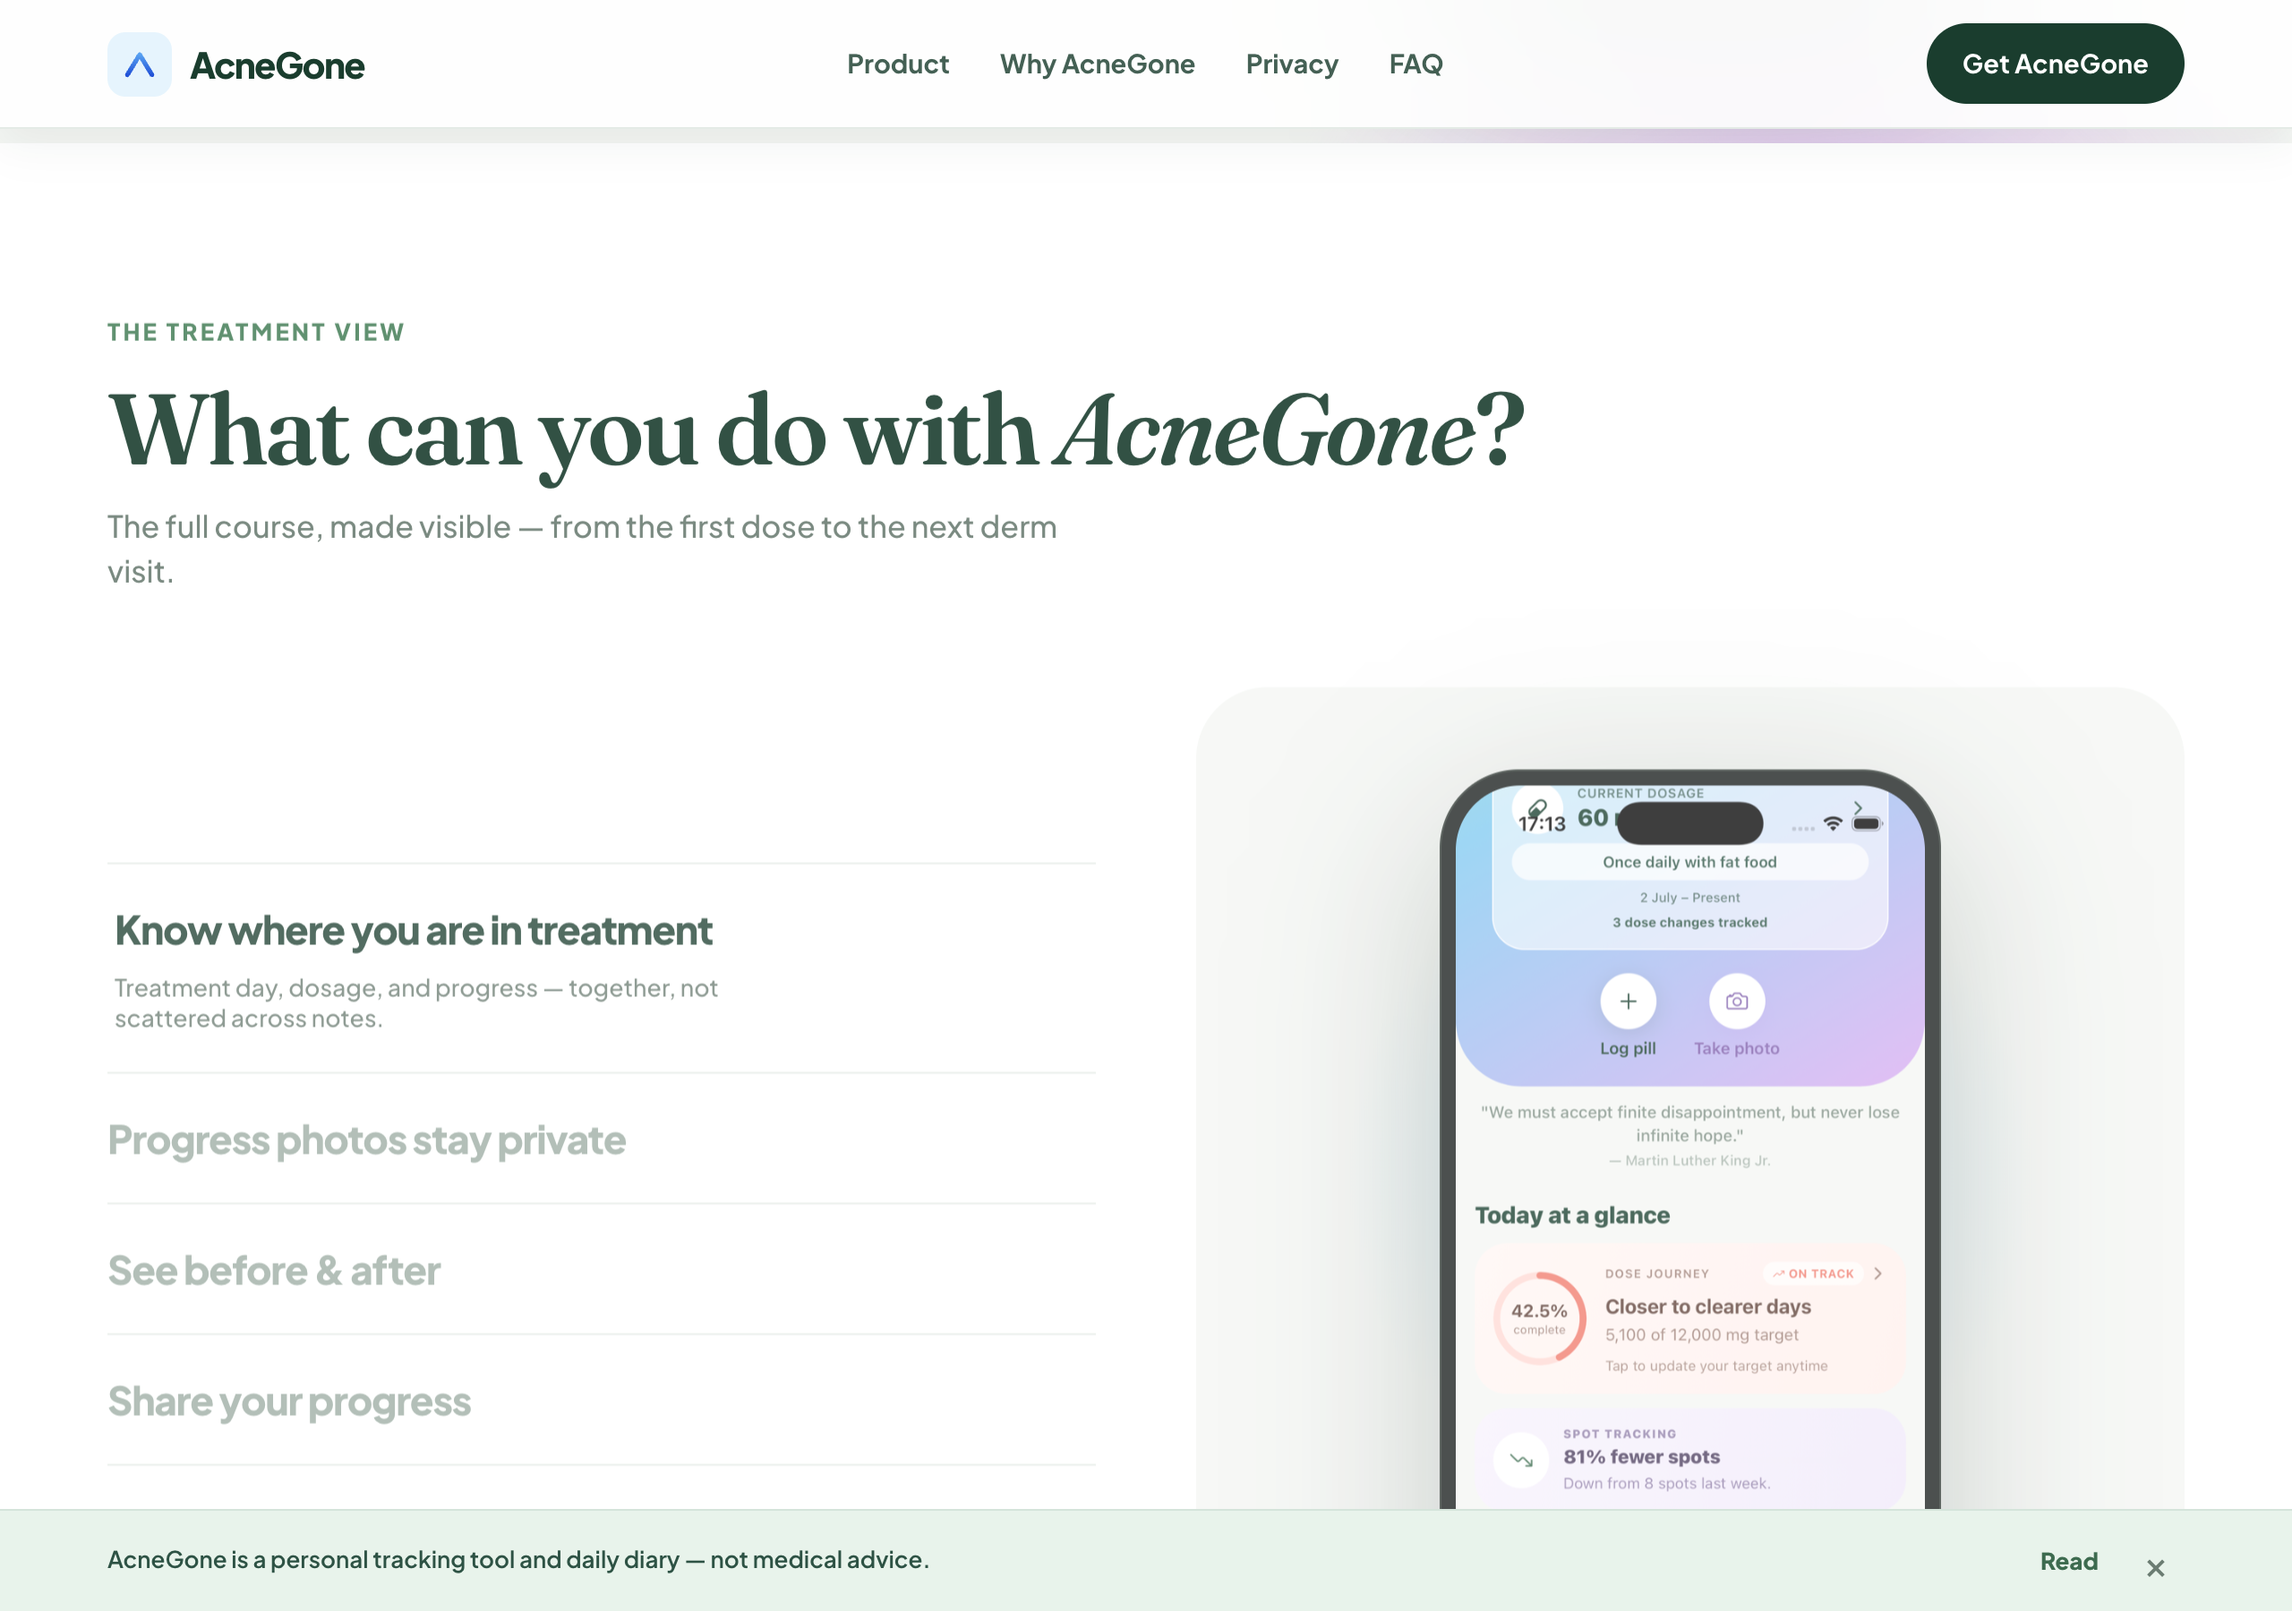
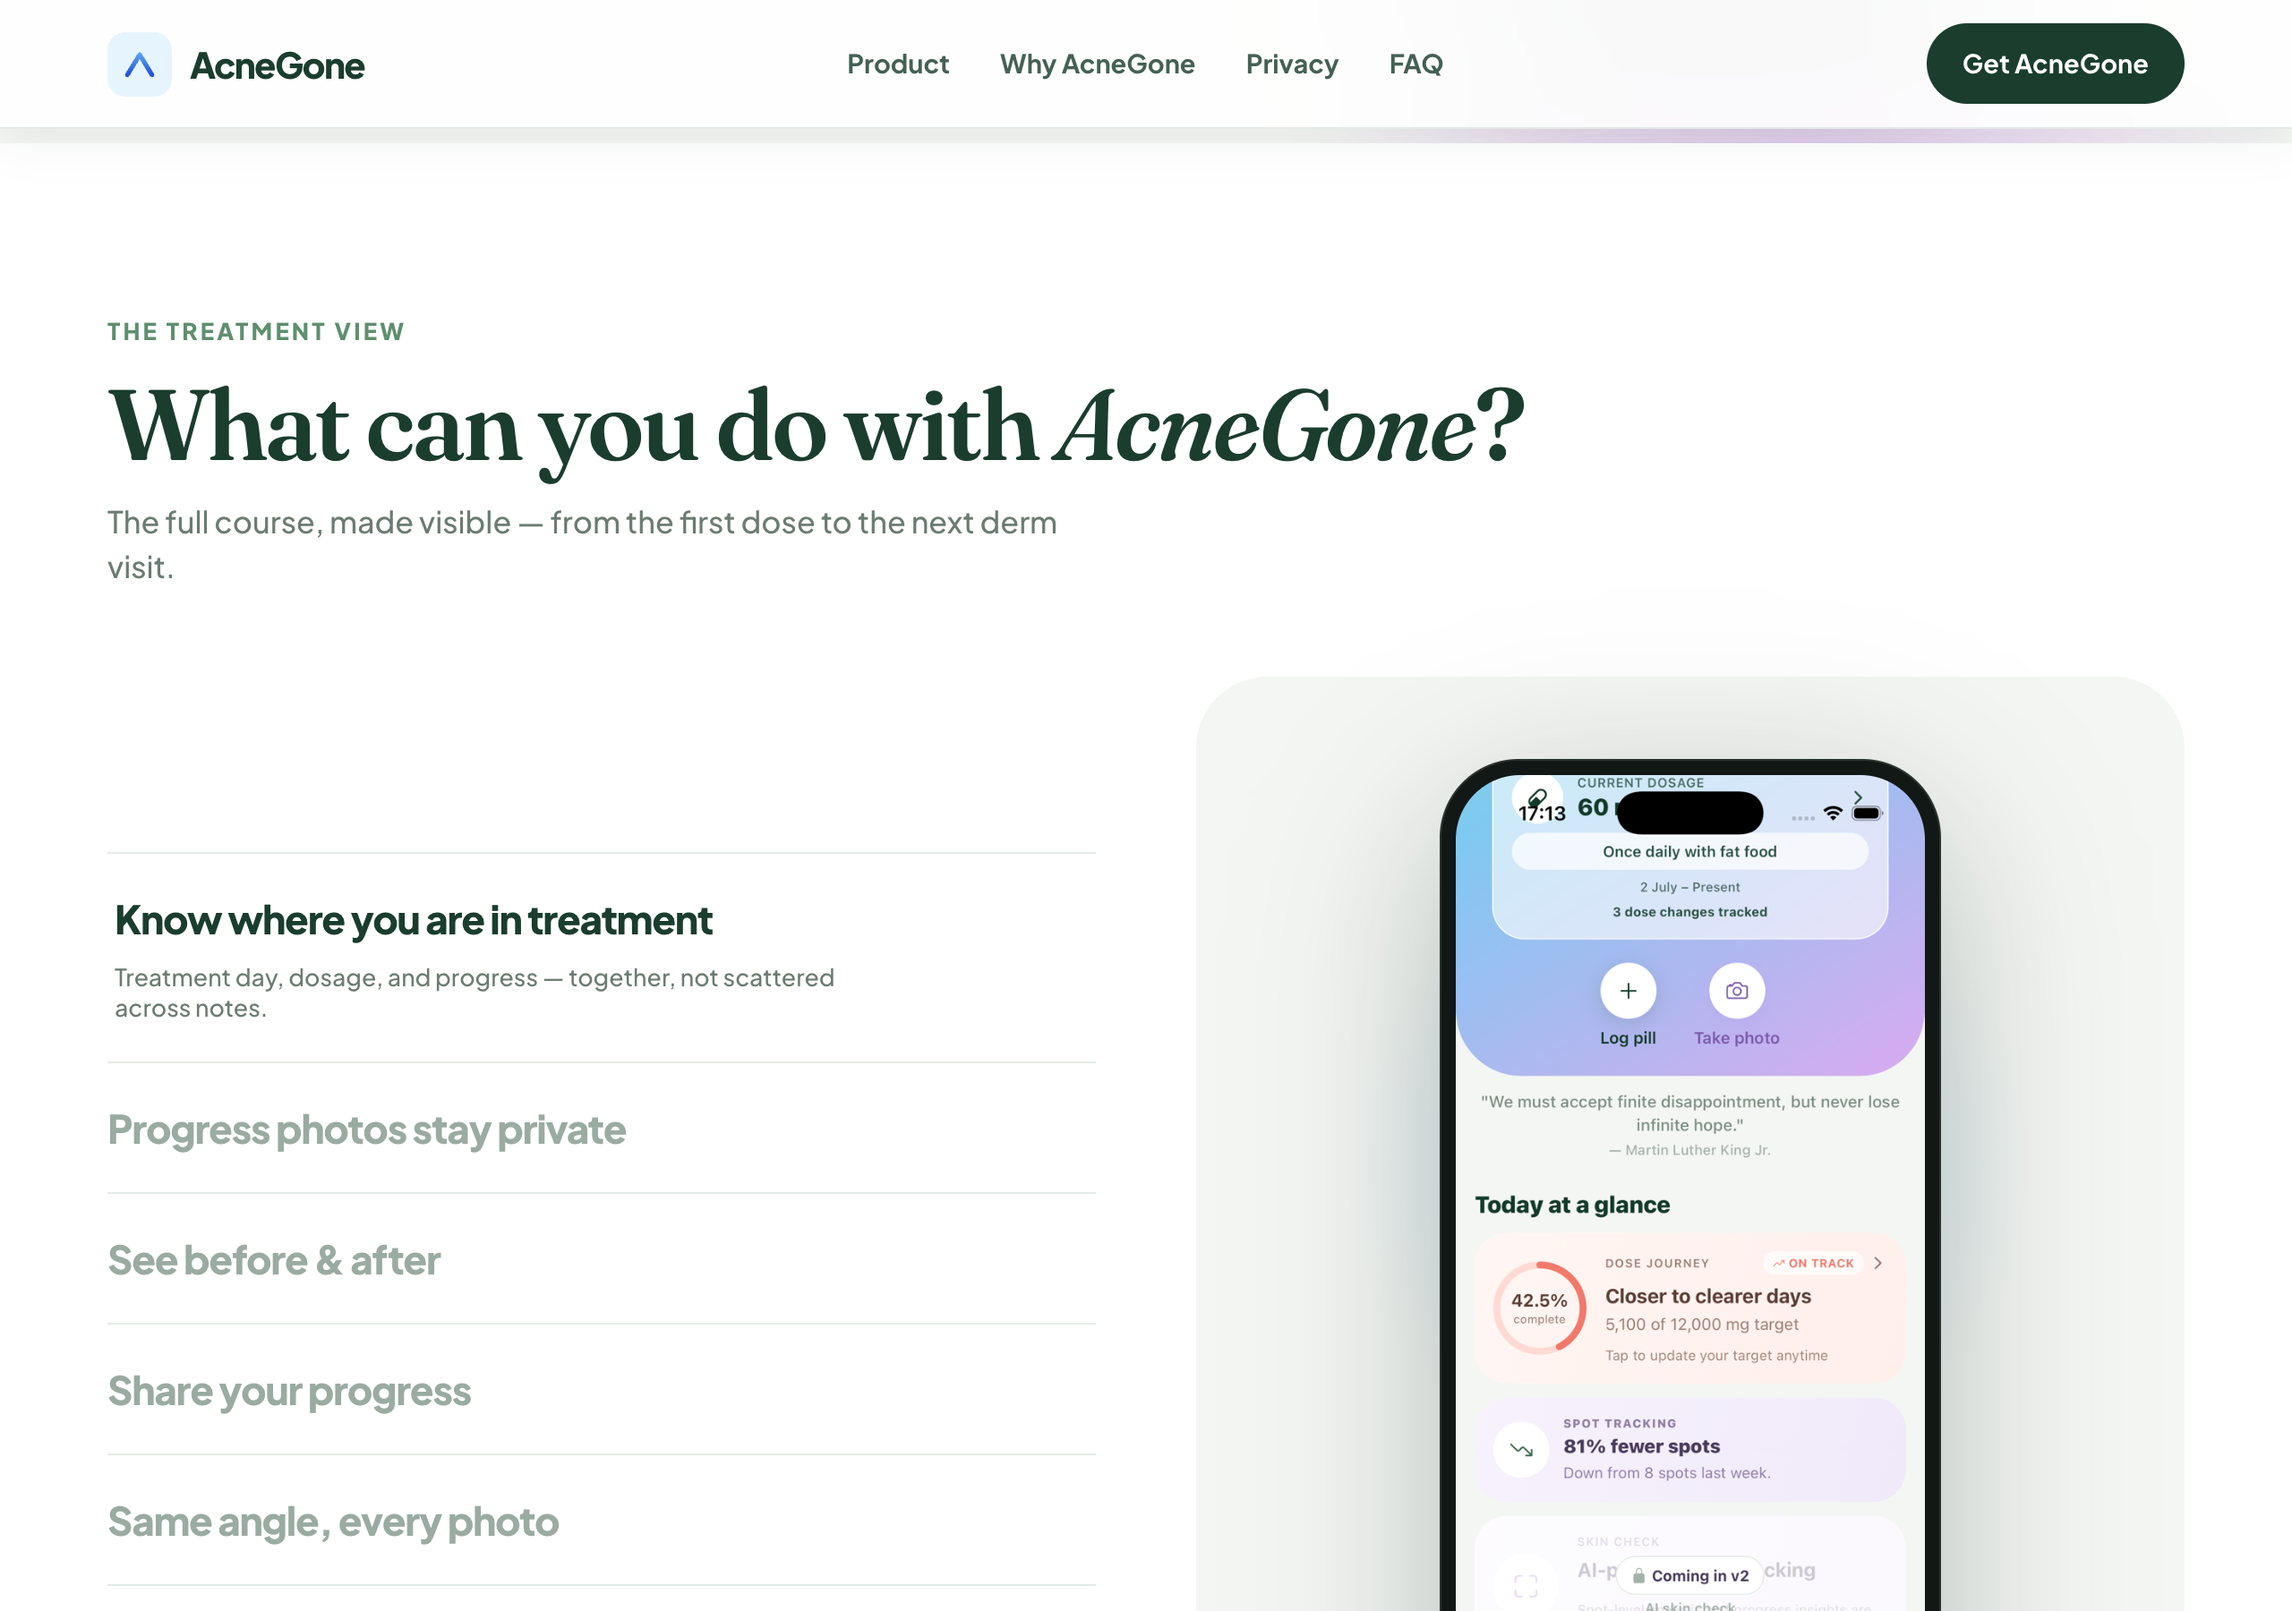
Rewrite README with clear site description and fresh screenshots.
Document each landing-page section with captions, feature highlights, and updated captures that hide the medical disclaimer banner.

diff --git a/README.md b/README.md
@@ -1,38 +1,66 @@
 # AcneGone website
 
-Static landing page for [AcneGone](https://github.com/insomniac-engineer/AcneGone) — a free, private Accutane companion.
+Marketing site for **[AcneGone](https://github.com/insomniac-engineer/AcneGone)** — a free, private companion for isotretinoin (Accutane) and skin tracking. No account, no ads, photos stay on your phone.
 
-**Live:** https://insomniac-engineer.github.io/AcneGone-website/
+This repo is a static landing page (HTML/CSS/JS) published on GitHub Pages. The mobile app lives in the [AcneGone app repo](https://github.com/insomniac-engineer/AcneGone).
 
-## Preview
+**Live site:** https://insomniac-engineer.github.io/AcneGone-website/
 
-### Hero
+![AcneGone landing page — hero with phone mockup, floating stat cards, and store badges](screenshots/01-hero.png)
 
-![AcneGone landing page hero with phone mockup and floating stat cards](screenshots/01-hero.png)
+## What’s on the site
 
-### Product
+- **Hero** — product pitch, App Store / Google Play badges, animated phone mockup
+- **Product** — interactive tabs pairing copy with in-app screenshots
+- **Why AcneGone** — empathy-focused benefits for the full treatment course
+- **Everything included** — free feature grid (no subscriptions)
+- **Privacy** — on-device photos, optional analytics, link to privacy policy
+- **Download** — closing CTA with drifting background orbs
 
-Interactive feature tabs with in-app screenshots.
+### Highlights
 
-![Product features — dose journey](screenshots/02-features.png)
+- Dose journey, pill log, and treatment day tracking
+- Private photo vault with compare, share (Hide eyes), and alignment camera
+- Trends, symptoms, and PDF export for derm visits
+- Medical disclaimer banner and full privacy policy page
 
-![Share your progress with Hide eyes enabled](screenshots/03-features-share.png)
+## Site preview
+
+### Product — dose journey
+
+Interactive tabs let visitors explore each feature. Default tab shows the dose journey card and treatment progress.
+
+![Product section — dose journey feature tab with phone mockup](screenshots/02-features.png)
+
+### Product — share your progress
+
+Share tab highlights the before/after card with **Hide eyes** enabled — a core privacy feature.
+
+![Product section — Share your progress tab with Hide eyes on before/after photos](screenshots/03-features-share.png)
 
 ### Why AcneGone
 
-![Why AcneGone — empathy-focused copy and benefit cards](screenshots/04-why.png)
+Copy focused on the emotional weight of a long course — organized tracking without judgment.
+
+![Why AcneGone section — benefit cards and supportive messaging](screenshots/04-why.png)
 
 ### Everything included
 
-![Everything included free — feature grid](screenshots/05-included.png)
+All app features listed as free — pill log, vault, camera, trends, PDF export, and more.
 
-### Privacy
+![Everything included section — feature grid on soft gradient background](screenshots/05-included.png)
 
-![Privacy by design section](screenshots/06-privacy.png)
+### Privacy by design
+
+On-device storage, no photo uploads, and optional anonymous analytics explained beside a phone mockup.
+
+![Privacy section — privacy principles with in-app privacy sheet mockup](screenshots/06-privacy.png)
 
 ### Download
 
-![Download closer with store buttons](screenshots/07-download.png)
+Dark closing section with animated background orbs and official store badges.
+
+![Download section — closing CTA with App Store and Google Play badges](screenshots/07-download.png)
 
 ## Local preview
 
@@ -44,31 +72,33 @@ Open http://localhost:4173
 
 ## Deploy
 
-Published via GitHub Pages from the `main` branch (root).
+GitHub Pages serves the `main` branch from the repo root. Push to `main` to redeploy.
 
-Push to `main` and Pages will rebuild automatically.
+## App screenshots in `assets/screens/`
 
-## App screenshots
+Phone mockups are exported from the [AcneGone](https://github.com/insomniac-engineer/AcneGone) app repo:
 
-Phone mockups in `assets/screens/` come from the main app repo:
-
-- Most screens: simulator captures in `AcneGone/store-listing/play/captures/`
-- Share screen (with Hide eyes): regenerate from the app repo
+| Source | Screens |
+|--------|---------|
+| `AcneGone/store-listing/play/captures/` | Most in-app screenshots |
+| `AcneGone/store-listing/play/compose-share-screenshot.cjs` | Share screen with Hide eyes |
 
 ```bash
-# from AcneGone/store-listing/play
+# Regenerate share screenshot (from AcneGone repo)
+cd ../AcneGone/store-listing/play
 node compose-share-screenshot.cjs
 ```
 
+Store badge SVGs live in `assets/badges/`.
+
 ## Regenerate README screenshots
 
-Captures viewport shots of each landing-page section from the live site (or pass a local URL):
+Captures each landing-page section from the live site (or a local URL):
 
 ```bash
 npm install
-node scripts/capture-readme-screenshots.mjs
-# or against local preview:
-node scripts/capture-readme-screenshots.mjs http://localhost:4173/
+npm run screenshots
+# or: node scripts/capture-readme-screenshots.mjs http://localhost:4173/
 ```
 
-Requires Google Chrome installed locally.
+Requires Google Chrome. The script dismisses the medical disclaimer banner for cleaner captures.
